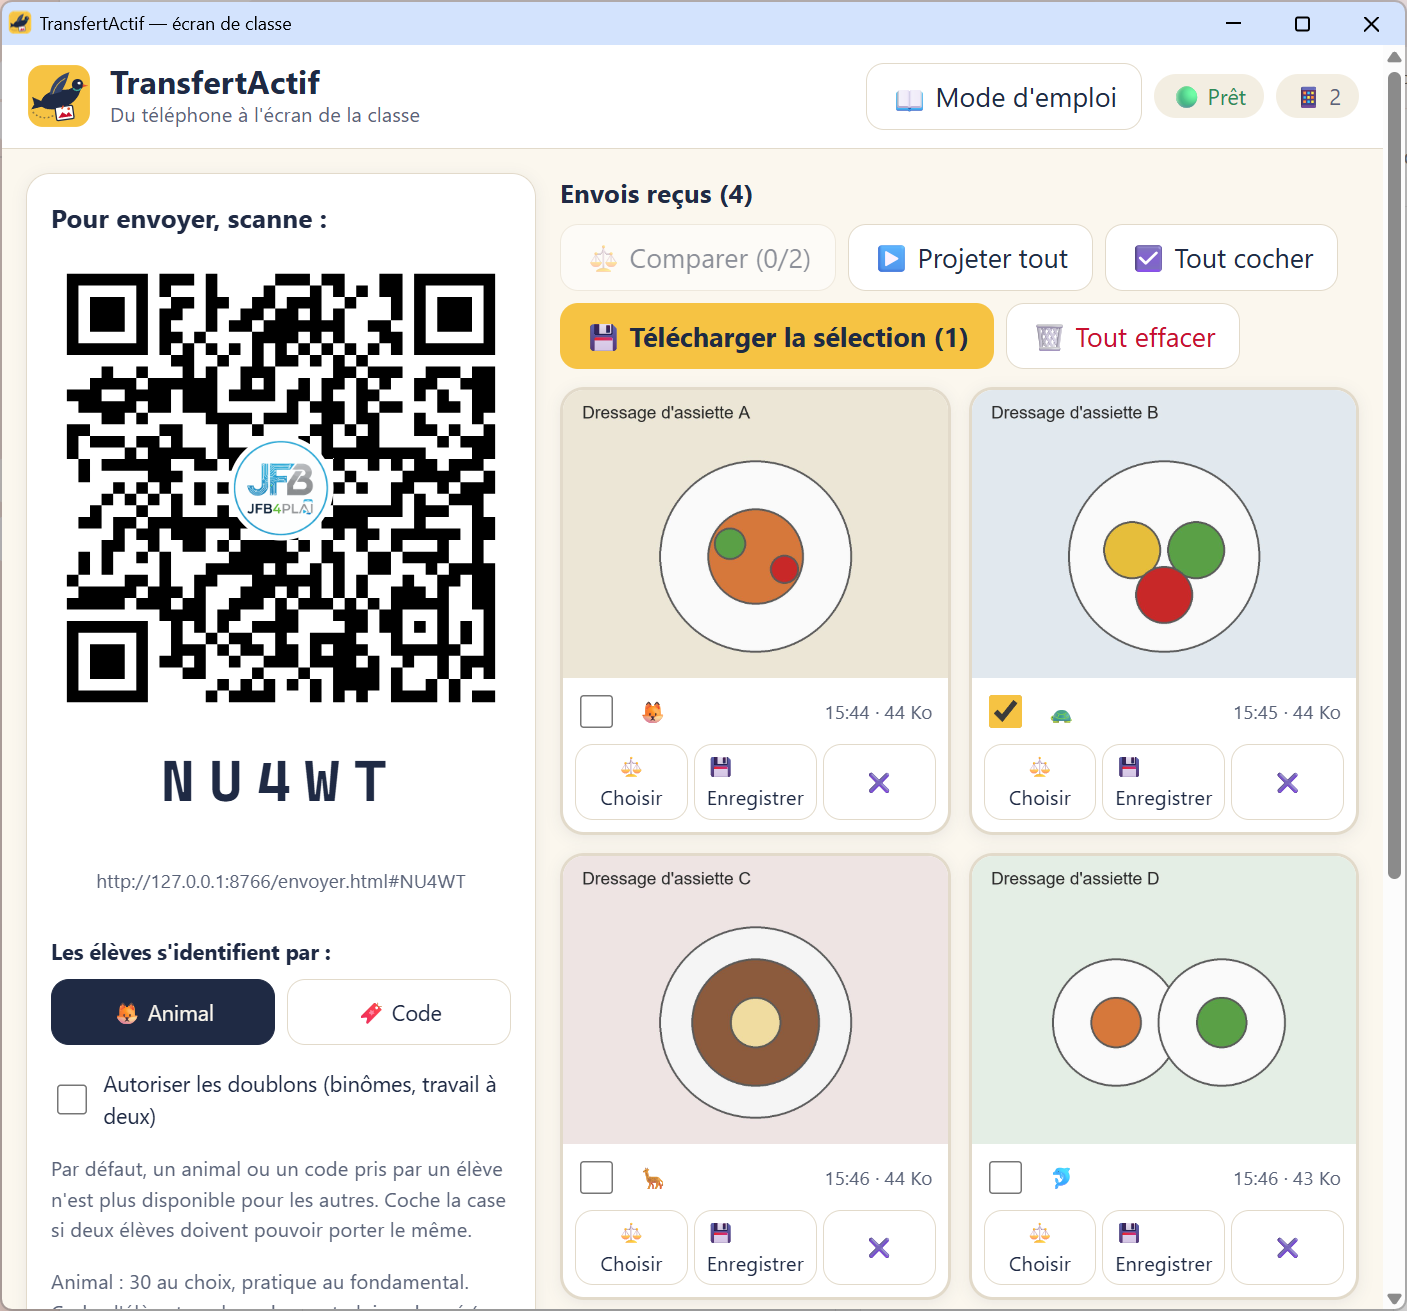
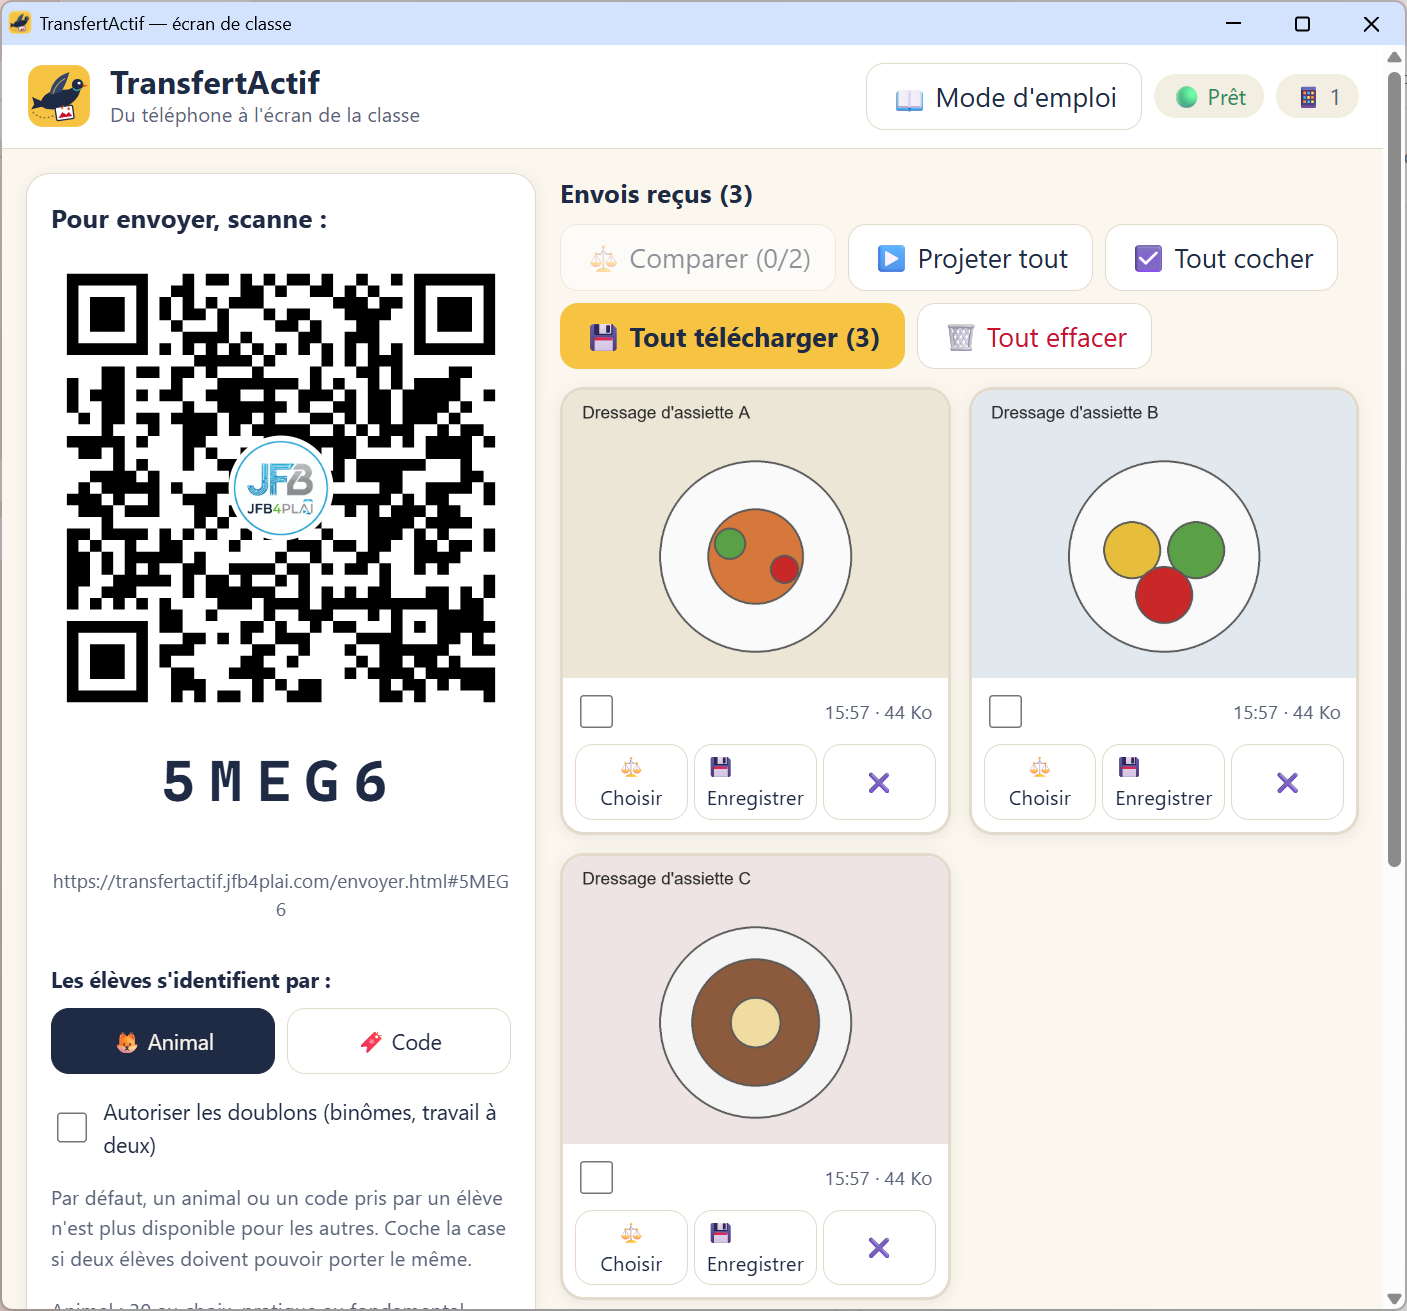
Masquer cache aussi le pictogramme de l'animal ; guide et capture mis à jour

diff --git a/guide.html b/guide.html
@@ -161,10 +161,10 @@
 
     <section class="carte" id="masquer">
       <h2>Masquer les pseudos</h2>
-      <p><span class="btn-nom">🙈 Masquer</span> cache le <strong>nom</strong> (le mot « Renard » ou le code « E07 ») sous chaque production, dans la galerie et dans la projection. Un second clic le ré-affiche.</p>
+      <p><span class="btn-nom">🙈 Masquer</span> cache le pseudo sous chaque production : le pictogramme de l'animal (🦊, 🐢…) et son nom, ou le code (« E07 »). Cela vaut dans la galerie et dans la projection. Un second clic les ré-affiche.</p>
       <p>Quand l'utiliser : avant de projeter le mur, pour commenter les productions sans désigner leur auteur.</p>
-      <figure class="fig "><img src="guide-img/ecran-masquer.png" width="1407" height="1311" alt="Galerie avec « Masquer » actif : les noms sont cachés, les pictogrammes restent"><figcaption>« Masquer » actif : les noms ont disparu, mais le pictogramme de chaque animal reste affiché.</figcaption></figure>
-      <p class="limite"><strong>À savoir :</strong> en mode <strong>Animal</strong>, le pictogramme (🦊, 🐢…) reste visible : les élèves reconnaissent encore leur animal. Pour un masquage complet, utiliser le mode <strong>Code</strong> : le pictogramme est alors le même pour tous (🔖) et seul le code disparaît. « Masquer » ne change que l'affichage : les fichiers téléchargés gardent le pseudo dans leur nom.</p>
+      <figure class="fig"><img src="guide-img/ecran-masquer.png" width="1407" height="1311" alt="Galerie avec « Masquer » actif : le pictogramme et le nom ont disparu sous chaque production" ><figcaption>« Masquer » actif : sous chaque production, le pictogramme et le nom ont disparu.</figcaption></figure>
+      <p class="limite"><strong>À savoir :</strong> « Masquer » ne change que l'affichage. Les fichiers téléchargés gardent le pseudo dans leur nom, et le nom d'un fichier qui n'est pas une image reste visible en projection.</p>
     </section>
 
     <section class="carte" id="pause">

diff --git a/ecran.js b/ecran.js
@@ -370,7 +370,7 @@ function dessinerGalerie() {
 
     const infos = document.createElement('div');
     infos.className = 'infos';
-    infos.innerHTML = '<span aria-hidden="true"></span><span class="qui"></span><span class="quand"></span>';
+    infos.innerHTML = '<span class="pic" aria-hidden="true"></span><span class="qui"></span><span class="quand"></span>';
     infos.children[0].textContent = e.animal[0];
     infos.children[1].textContent = e.animal[1];
     infos.children[2].textContent = heure(e.heure) + ' · ' + TRANSFERT.taille(e.taille);
@@ -475,7 +475,7 @@ function figure(e) {
   }
   const legende = document.createElement('figcaption');
   legende.className = 'legende';
-  legende.innerHTML = '<span></span> <span class="qui"></span> <span class="nom"></span>';
+  legende.innerHTML = '<span class="pic"></span> <span class="qui"></span> <span class="nom"></span>';
   legende.children[0].textContent = e.animal[0];
   legende.children[1].textContent = e.animal[1];
   legende.children[2].textContent = estImage(e) ? '' : '— ' + e.nom;

diff --git a/index.html b/index.html
@@ -44,7 +44,7 @@
         <label class="bouton large" for="fichier-distribuer">📤 Distribuer un document</label>
         <input type="file" id="fichier-distribuer" hidden>
       </div>
-      <p class="aide">« Masquer » cache les pseudos à l'écran. « Distribuer » envoie un document (fiche, consigne) à tous les téléphones connectés. <a href="guide.html" target="_blank" rel="noopener">Mode d'emploi complet</a>.</p>
+      <p class="aide">« Masquer » cache les pseudos à l'écran (pictogramme et nom, ou code). « Distribuer » envoie un document (fiche, consigne) à tous les téléphones connectés. <a href="guide.html" target="_blank" rel="noopener">Mode d'emploi complet</a>.</p>
     </section>
 
     <section class="galerie-zone" aria-labelledby="titre-galerie">

diff --git a/transfertactif.css b/transfertactif.css
@@ -170,7 +170,9 @@ button, input, select { font: inherit; color: inherit; }
 .envoi .infos .quand { margin-left: auto; color: var(--texte-doux); font-size: .8rem; }
 .envoi .actions { display: flex; gap: 4px; padding: 0 8px 8px; }
 .envoi .actions .bouton { min-height: 36px; padding: 4px 8px; font-size: .85rem; flex: 1; }
-.masquer-pseudos .envoi .qui, .masquer-pseudos .projection .legende .qui { visibility: hidden; }
+/* « Masquer » cache le pictogramme de l'animal et le nom (ou le code) : sinon l'animal reste reconnaissable. */
+.masquer-pseudos .envoi .infos .pic, .masquer-pseudos .envoi .qui,
+.masquer-pseudos .projection .legende .pic, .masquer-pseudos .projection .legende .qui { visibility: hidden; }
 
 /* Projection plein écran */
 .projection {

diff --git a/README.md b/README.md
@@ -12,7 +12,7 @@ TransfertActif est une adaptation PLAI de [Roucoule](https://roucoule.forge.apps
 |---|---|
 | **Mur de classe** : plusieurs élèves envoient en même temps, les envois s'affichent en galerie | Mise en commun : on projette les productions de toute la classe, pas d'une seule personne. |
 | **Comparer 2 productions côte à côte** | Retour collectif sur un geste ou un résultat (dressage d'assiette, coupe, montage, schéma, cahier). |
-| **Identification au choix de l'enseignant, à l'ouverture de l'écran** : 30 animaux (🦊 Renard, 🐢 Tortue… pratique au fondamental) ou codes (`E07`, 8 caractères A-Z, 0-9, tiret, sans accent : pratique au secondaire). Jamais de prénom | Aucun nom d'élève à l'écran, et la projection reste « sans jugement nominatif ». Bouton 🙈 pour masquer aussi les pseudos. Avec le code, le fichier téléchargé s'appelle `E07_10h42_photo.jpg`. |
+| **Identification au choix de l'enseignant, à l'ouverture de l'écran** : 30 animaux (🦊 Renard, 🐢 Tortue… pratique au fondamental) ou codes (`E07`, 8 caractères A-Z, 0-9, tiret, sans accent : pratique au secondaire). Jamais de prénom | Aucun nom d'élève à l'écran, et la projection reste « sans jugement nominatif ». Bouton 🙈 pour masquer aussi les pseudos (pictogramme et nom, ou code). Avec le code, le fichier téléchargé s'appelle `E07_10h42_photo.jpg`. |
 | **Identité unique** : un animal ou un code pris par un élève est grisé ou refusé pour les autres, et se libère quand son téléphone ne donne plus signe de vie (environ 30 s ; la fermeture d'un onglet n'est pas toujours signalée par le navigateur). Case « Autoriser les doublons » pour les binômes. Le smartphone de l'enseignant n'est jamais bloqué | Un pseudo = un élève, sauf choix contraire. Un identifiant stable par téléphone évite qu'un élève qui recharge sa page se bloque lui-même. |
 | **Smartphone de l'enseignant** : bouton « 📱 QR pour mon smartphone » (lien `envoyer.html?prof#CODE`). Sur ce lien, l'enseignant bascule animal/code lui-même, et après chaque envoi choisit « Même élève : autre page » ou « Élève suivant » (l'identité est alors oubliée) | Envoyer les productions de toute la classe depuis un seul téléphone sans attribuer un envoi au mauvais élève. |
 | **Parcours élève FALC** : 3 étapes numérotées, gros boutons, pictogrammes, bouton 🔊 qui lit chaque consigne | Élèves lecteurs fragiles, DYS, allophones, enseignement spécialisé. Synthèse vocale du navigateur : rien ne part vers un service externe. |
